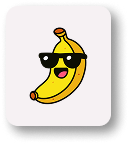
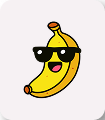
fix: cropped gaming cards to remove offset

diff --git a/src/styles/themes/_gaming.scss b/src/styles/themes/_gaming.scss
@@ -60,17 +60,6 @@ body[data-theme="gaming"] {
         height: auto;
         aspect-ratio: 7 / 8;
 
-        &__side {
-            overflow: visible;
-        }
-
-        img {
-            width: 122.857%;
-            max-width: none;
-            height: 120%;
-            object-fit: fill;
-        }
-
         &.is-matched &__side--picture::after {
             position: absolute;
             top: 3.333%;
